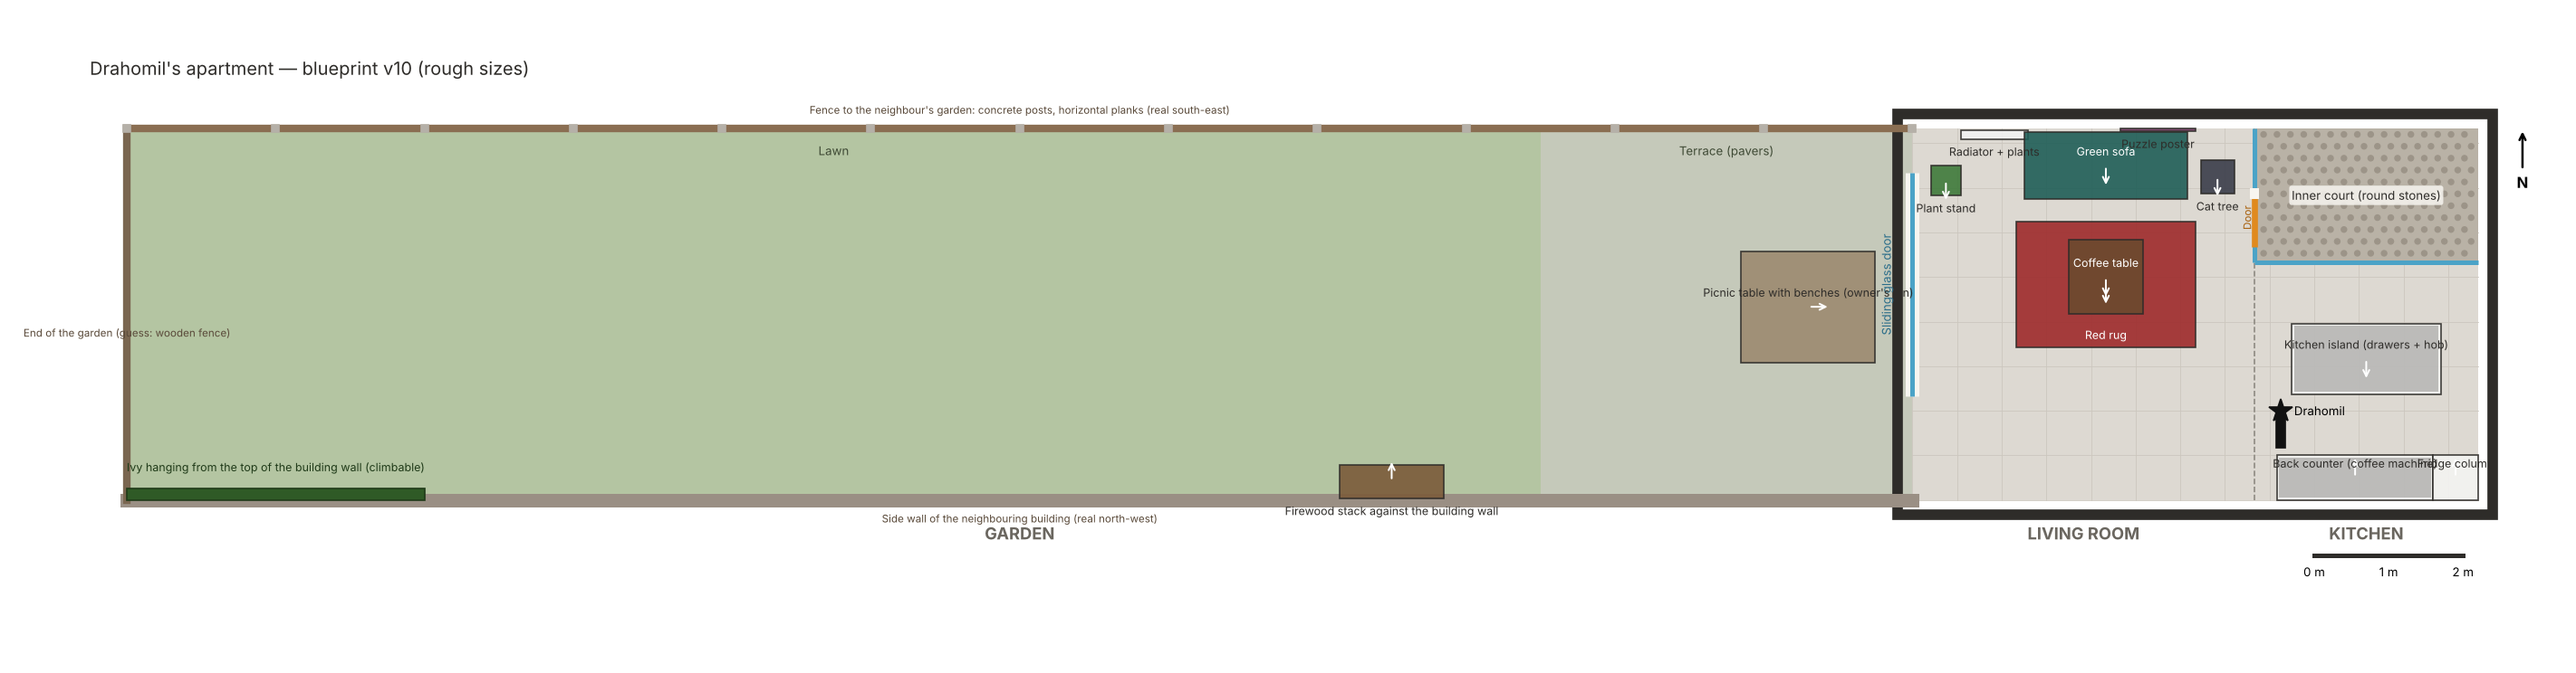
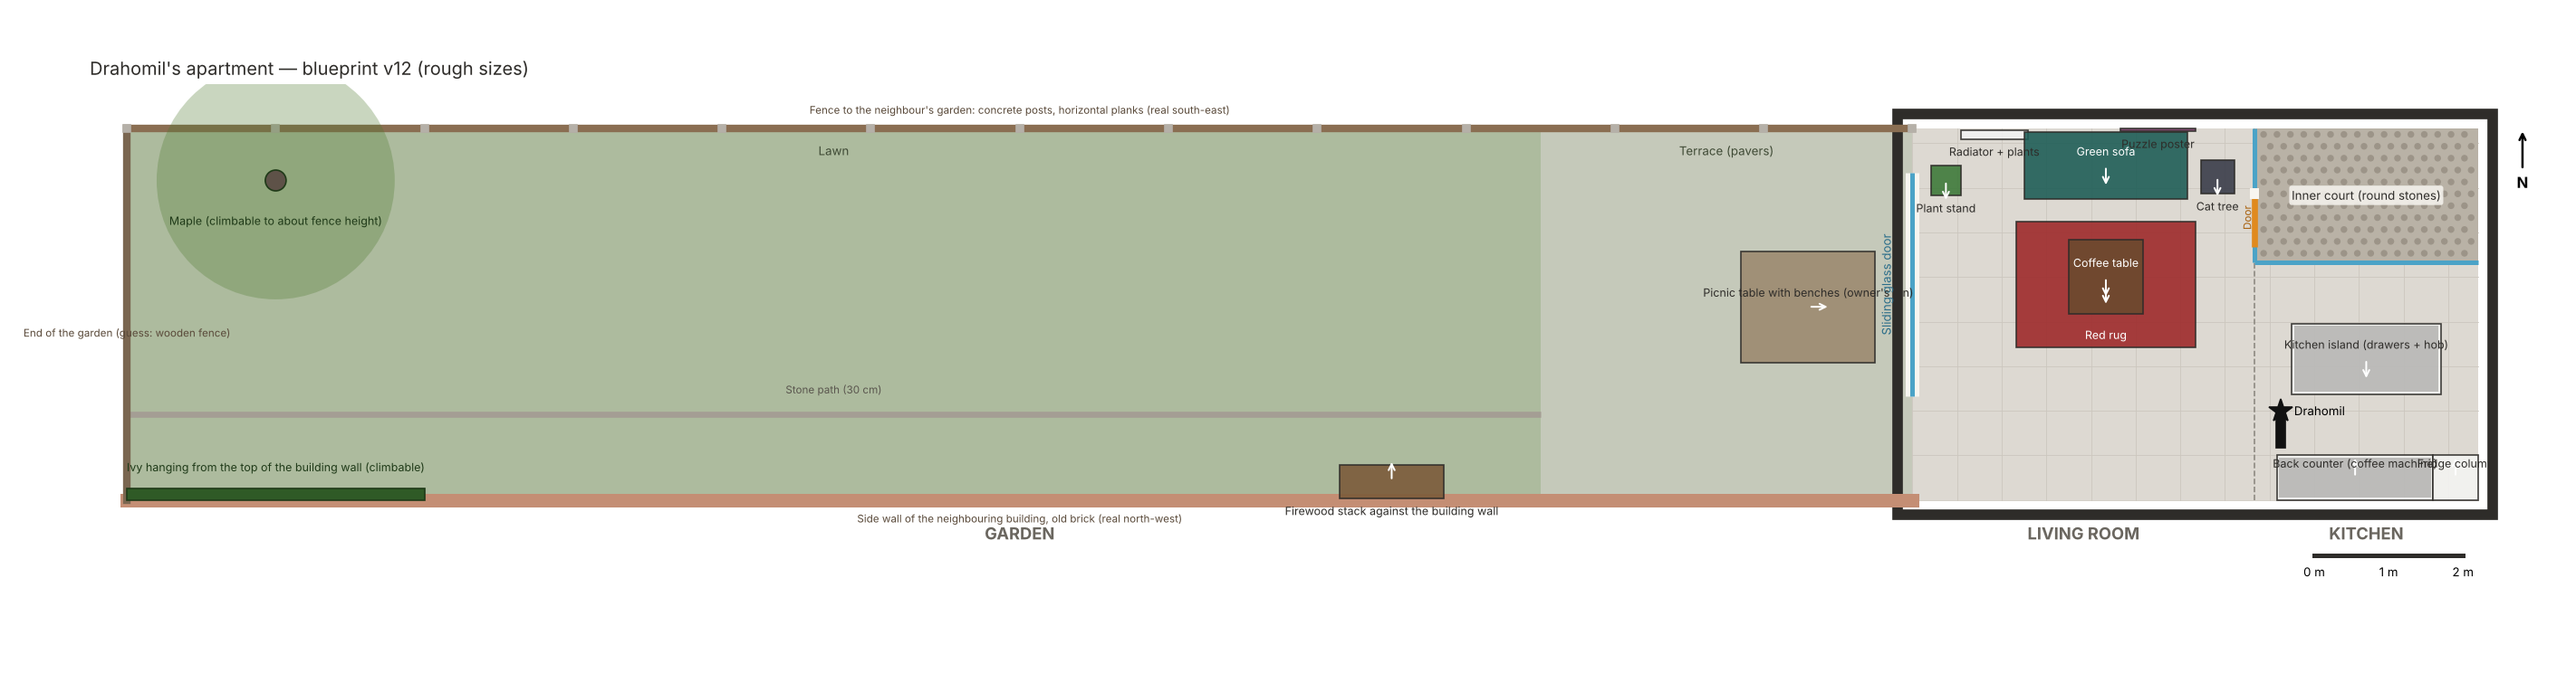
Round 11: stone path and maple tree in the garden (owner's description)
- Stone path: 30 cm slabs, 1 m from the building wall, from the terrace to
  the far end.
- Maple: 2 m from the far end, near the neighbour's fence. The trunk is
  climbable to about fence height; branches and a wide crown above. The
  blackbirds can perch in it.
- Blueprint v12 and its picture.

Claude-Session: https://claude.ai/code/session_01SZGSXzGr2wVTQ6dNG9kPYP

diff --git a/Draho/Assets/_Draho/Editor/ApartmentBuilder.cs b/Draho/Assets/_Draho/Editor/ApartmentBuilder.cs
@@ -54,7 +54,9 @@ namespace Draho.EditorTools
             public ClimbableInfo[] climbables;
             public Zone[] garden_zones;
             public BirdSpot[] birds;
+            public GardenPath[] garden_paths;
         }
+        [Serializable] class GardenPath { public string id, color; public float[] from, to; public float w, slab; }
         [Serializable] class BirdSpot { public string id; public float x, z; }
         [Serializable] class Zone { public string id, material, color; public float x0, x1; }
         [Serializable] class FloorInfo { public float tile_size; public string color; }
@@ -106,6 +108,7 @@ namespace Draho.EditorTools
             foreach (var court in layout.courts ?? new Court[0]) BuildCourt(layout, court);
             foreach (var prop in layout.props) BuildProp(prop);
             BuildGarden(layout);
+            BuildPaths(layout);
             foreach (var c in layout.climbables ?? new ClimbableInfo[0]) BuildClimbable(c);
 
             var spawn = new GameObject("SpawnPoint").transform;
@@ -466,6 +469,32 @@ namespace Draho.EditorTools
             }
         }
 
+        /// <summary>Stone slabs in a line over the lawn, with a strip of grass between them.</summary>
+        static void BuildPaths(Layout layout)
+        {
+            var rng = new System.Random(3);
+            foreach (var pa in layout.garden_paths ?? new GardenPath[0])
+            {
+                var root = new GameObject(pa.id).transform;
+                root.SetParent(level, false);
+                var stone = Mat($"Apt_{pa.id}", Hex(pa.color), 0.15f);
+                var stoneDark = Mat($"Apt_{pa.id}_2", Hex(pa.color) * 0.88f, 0.15f);
+                Vector3 a = new Vector3(pa.from[0], 0f, pa.from[1]), b = new Vector3(pa.to[0], 0f, pa.to[1]);
+                float length = Vector3.Distance(a, b), slab = pa.slab > 0f ? pa.slab : 0.6f;
+                const float gap = 0.04f;
+                int count = Mathf.Max(1, Mathf.FloorToInt(length / (slab + gap)));
+                Quaternion along = Quaternion.LookRotation((b - a).normalized);
+                for (int i = 0; i < count; i++)
+                {
+                    // Flush with the lawn (its top is at -0.01); no collider: the lawn carries the cat.
+                    Vector3 c = a + (b - a) * ((i + 0.5f) / count) + Vector3.up * -0.012f;
+                    var go = Box("Slab", c, new Vector3(pa.w, 0.03f, slab), rng.Next(3) == 0 ? stoneDark : stone, collider: false);
+                    go.transform.rotation = along * Quaternion.Euler(0f, ((float)rng.NextDouble() - 0.5f) * 3f, 0f);
+                    go.transform.SetParent(root, true);
+                }
+            }
+        }
+
         /// <summary>Concrete posts with horizontal wooden planks between them.</summary>
         static void PostFence(Edge e, bool alongX, float line, float a, float b)
         {
@@ -575,24 +604,40 @@ namespace Draho.EditorTools
             }
             if (c.type == "tree")
             {
+                // A maple: a trunk the cat can climb to about fence height, a few branches, a wide crown.
                 var trunk = GameObject.CreatePrimitive(PrimitiveType.Cylinder);
                 trunk.name = "Trunk";
                 trunk.transform.SetParent(root, false);
                 trunk.transform.localPosition = Vector3.up * c.h / 2;
                 trunk.transform.localScale = new Vector3(c.radius * 2, c.h / 2, c.radius * 2);
                 trunk.GetComponent<Renderer>().sharedMaterial = wood;
-                // Leaves: a few overlapping spheres, no colliders.
-                var leaves = new[] { new Vector3(0f, 0.2f, 0f), new Vector3(0.5f, 0f, 0.2f), new Vector3(-0.4f, 0.1f, -0.3f),
-                    new Vector3(0.1f, 0.5f, -0.4f), new Vector3(-0.2f, -0.1f, 0.5f) };
-                for (int i = 0; i < leaves.Length; i++)
+                var rng = new System.Random(5);
+                float Rand() => (float)rng.NextDouble();
+                for (int i = 0; i < 4; i++) // branches from the fork, no colliders
+                {
+                    var branch = GameObject.CreatePrimitive(PrimitiveType.Cylinder);
+                    branch.name = "Branch";
+                    Object.DestroyImmediate(branch.GetComponent<Collider>());
+                    branch.transform.SetParent(root, false);
+                    Quaternion tilt = Quaternion.Euler(0f, i * 90f + 30f * Rand(), 0f) * Quaternion.Euler(30f + 15f * Rand(), 0f, 0f);
+                    float len = 1.1f + 0.4f * Rand();
+                    branch.transform.localRotation = tilt;
+                    branch.transform.localPosition = Vector3.up * (c.h - 0.2f) + tilt * Vector3.up * len / 2;
+                    branch.transform.localScale = new Vector3(c.radius, len / 2, c.radius);
+                    branch.GetComponent<Renderer>().sharedMaterial = wood;
+                }
+                var leafDark = Mat($"Apt_{c.id}_top2", Hex(c.top_color) * 0.78f, 0.1f);
+                for (int i = 0; i < 14; i++) // crown: flattened leaf clusters, no colliders
                 {
                     var crown = GameObject.CreatePrimitive(PrimitiveType.Sphere);
                     crown.name = "Leaves";
                     Object.DestroyImmediate(crown.GetComponent<Collider>());
                     crown.transform.SetParent(root, false);
-                    crown.transform.localPosition = Vector3.up * (c.h + 0.3f) + leaves[i];
-                    crown.transform.localScale = Vector3.one * (1.3f - 0.12f * i);
-                    crown.GetComponent<Renderer>().sharedMaterial = top;
+                    float angle = Rand() * Mathf.PI * 2f, r = 1.4f * Mathf.Sqrt(Rand());
+                    crown.transform.localPosition = new Vector3(Mathf.Cos(angle) * r, c.h + 0.8f + Rand() * 1.4f - r * 0.3f, Mathf.Sin(angle) * r);
+                    float size = 1.1f + 0.6f * Rand();
+                    crown.transform.localScale = new Vector3(size, size * 0.7f, size);
+                    crown.GetComponent<Renderer>().sharedMaterial = rng.Next(2) == 0 ? top : leafDark;
                 }
                 climbable.Configure(c.climb_top, false);
                 return;
@@ -817,6 +862,13 @@ namespace Draho.EditorTools
                 for (float t = a + step; t < b - 0.5f; t += step)
                     perches.Add(alongX ? new Vector3(t, top, line) : new Vector3(line, top, t));
             }
+            foreach (var c in layout.climbables ?? new ClimbableInfo[0]) // the outer branches of trees
+                if (c.type == "tree")
+                    for (int i = 0; i < 3; i++)
+                    {
+                        float angle = i * 2.1f + 0.4f;
+                        perches.Add(new Vector3(c.x + Mathf.Cos(angle) * 1.1f, c.h + 0.6f, c.z + Mathf.Sin(angle) * 0.6f));
+                    }
             var lawnZone = (layout.garden_zones ?? new Zone[0]).FirstOrDefault(z => z.material == "grass");
             var garden = layout.rooms.First(r => r.outdoor);
             var lawn = lawnZone != null

diff --git a/Tools/Level/render_blueprint.py b/Tools/Level/render_blueprint.py
@@ -134,8 +134,19 @@ def main(src, dst):
         ax.text((ex0 + ex1) / 2, (ez0 + ez1) / 2 + (0.25 if ez0 >= 2.5 else -0.25), e["label"], ha="center",
                 va="center", fontsize=7, color="#5A4A3A", zorder=7)
 
+    # Garden paths (stone slabs).
+    for pa in lay.get("garden_paths", []):
+        (px0, pz0), (px1, pz1) = pa["from"], pa["to"]
+        ax.plot([px0, px1], [pz0, pz1], color=pa["color"], lw=4, zorder=4, solid_capstyle="butt")
+        ax.text((px0 + px1) / 2, pz0 + 0.25, pa["label"], ha="center", va="bottom", fontsize=7, color="#5A564E", zorder=5)
+
     # Climbable surfaces (ivy).
     for c in lay.get("climbables", []):
+        if c["type"] == "tree":  # trunk and crown seen from above
+            ax.add_patch(mp.Circle((c["x"], c["z"]), 1.6, facecolor=c["top_color"], alpha=0.3, edgecolor="none", zorder=9))
+            ax.add_patch(mp.Circle((c["x"], c["z"]), c["radius"], facecolor=c["color"], edgecolor="#1F3A18", zorder=10))
+            ax.text(c["x"], c["z"] - 0.45, c["label"], ha="center", va="top", fontsize=7.5, color="#1F3A18", zorder=13)
+            continue
         w, d = c.get("w", 2 * c.get("radius", 0.2)), c.get("d", 2 * c.get("radius", 0.2))
         ax.add_patch(mp.Rectangle((c["x"] - w / 2, c["z"]), w, max(d, 0.15), facecolor=c["color"],
                                   edgecolor="#1F3A18", lw=1, zorder=10))

diff --git a/docs/APARTMENT.md b/docs/APARTMENT.md
@@ -31,7 +31,7 @@ The photos are **not** in the repository, because they show people. Only the blu
 4. Where are the front door, the hallway and the stairs (if any)?
 5. Size of the garden and where the fence and the brick wall are.
 
-## Garden (blueprint v10)
+## Garden (blueprint v12)
 
 From the owner's description and open aerial data of Flanders (Digitaal Vlaanderen orthophotos and
 GRB parcel outlines, free reuse licence). The exact location is not stored in this repository.
@@ -45,4 +45,7 @@ GRB parcel outlines, free reuse licence). The exact location is not stored in th
   small **firewood stack** against it. At the far end **ivy** hangs down from the top: the cat can climb it.
 - **Game north (real south-east):** the fence to the neighbour's garden: **concrete posts with
   horizontal wooden planks** (guess: 1.8 m).
+- **Stone path:** 30 cm wide, 1 m from the building wall, from the terrace to the far end, over the lawn.
+- **Maple tree:** 2 m from the far end, close to the neighbour's fence. The cat can climb the trunk to
+  about fence height (1.9 m); the crown is higher. Blackbirds also perch in it.
 - **Far end:** not known yet (guess: wooden fence).

diff --git a/docs/PLAYTEST_LOOP.md b/docs/PLAYTEST_LOOP.md
@@ -34,3 +34,4 @@ Claude improves the game in rounds. Each round has the same steps:
 | 8 | Calmer lawn texture | Cat keeps a small gap to the climbing surface (it no longer pushes itself under the ivy); verified: rear → climb to 2.96 m → hold → leap off → land | — |
 | 9 | Ivy as one mesh of ~1600 small flat leaves (was big spheres); brick texture on the building wall; camera moves back and looks level while the cat climbs | Blackbirds on the lawn: hop, peck, hear the cat (run 4 m, walk 2.2 m, sneak 0.7 m), fly to a fence post or the wall top, come back far from the cat | New beat: sneak up on a blackbird; end text waits until the cat is at the top of the ivy |
 | 10 | Climb camera closer (1.7 m), darker young ivy leaves | **Hold the middle of the stick to stand up and climb** (owner's request); birds: stalk radius 1.3 m, no false scare when the cat stands up | Climb goal explains the hold |
+| 11 | Stone path (30 cm slabs, 1 m from the building wall), maple tree with branches and a wide crown (owner's description) | Maple trunk climbable to 1.9 m; blackbirds perch in the maple | — |
